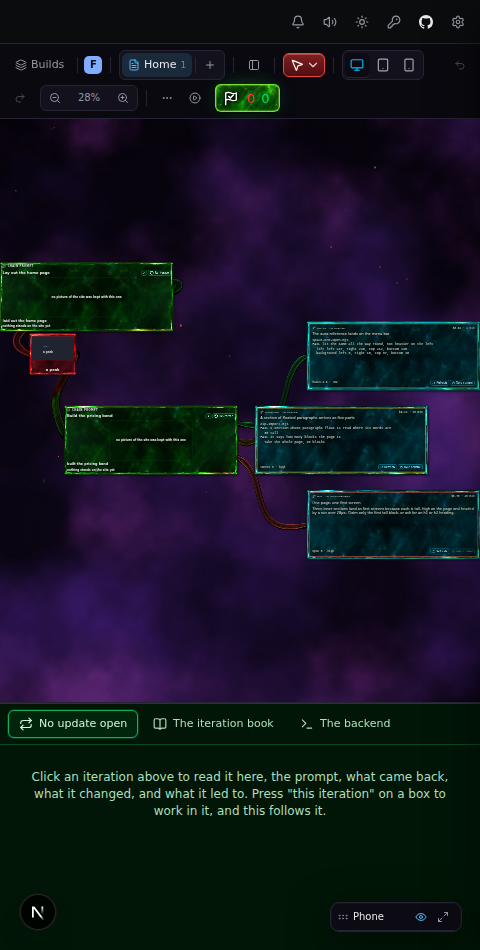
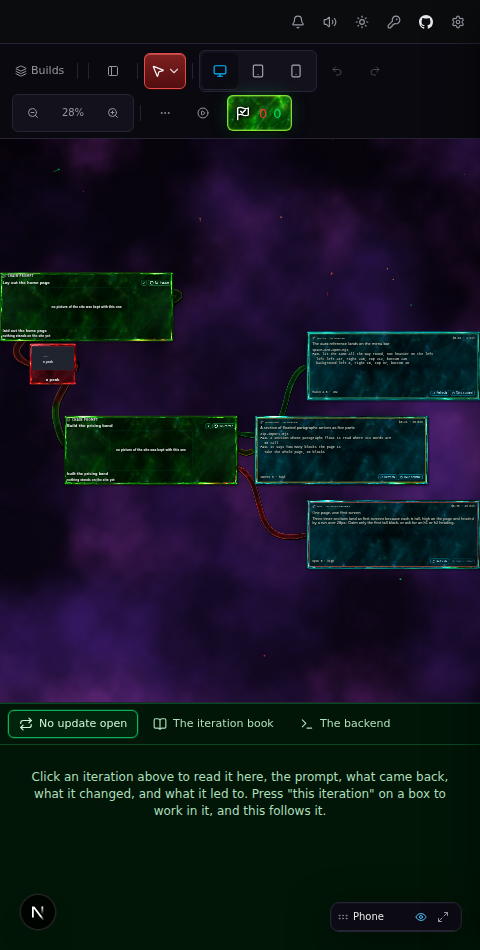
The vines are one painted body, and their colours flow into each other
No line down the middle of a vine: the dark core band at the axis is
lifted to char with a little core in it, and the faint thread scored
along the axis for the cut line is no longer painted at rest. The seam
is still there to press, and the press lights it.

Where two colours meet they lie over each other instead of switching:
each end's colour runs whole for three tenths of the length and thins
out to nothing by seven tenths, one from each end, over the material's
own dark, so some green flows into the red and some red back into the
green and each end stays the majority of its own colour.

The lane vines carry the construct's drifting cloud the timeline lays
over its own, clipped to the ribbon, so a lane's vine is the same
weather as the box it leaves.

Claude-Session: https://claude.ai/code/session_011dxs3jh1JLZT6UEd7hCDPr

diff --git a/src/features/studio/strand.ts b/src/features/studio/strand.ts
@@ -32,20 +32,18 @@
  * core is the axis, the light gathers at both edges, and there is one
  * ribbon rather than a pair lying against each other.
  *
- * **The colour runs along it instead, and the two never meet.** A vine
+ * **The colour runs along it instead, and the two flow into each other.** A vine
  * joins a green board to a red drawing and belongs to both, so it is green
  * where it leaves the green one, red where it arrives at the red one, and
- * in between it goes down to the material's own dark — not through a mix.
- * Blending the ends was tried and the middle of every vine came out yellow
- * and then brown, which is a colour neither board has; the way through is
- * that the light in a construct gathers where the construct is, and a vine
- * far from either board has nothing lighting it. Each band is one fill with
- * a gradient along the run, so it is still one fill per band whatever the
- * colours are, and the darkening is a clamp rather than a colour: the two
- * ends' bands are mixed and then pulled down to the lightness and the
- * chroma of `char`, where a hue cannot be read. A vine between two boards
- * of the same kind runs down into the same dark: lit at both ends, dark
- * along the middle, so every vine on the board is the one J pointed at.
+ * through the middle each colour thins out over the material's own dark
+ * as the other comes in, so some green flows into the red and some red
+ * back into the green, each end still the majority of its own (`HOLD`).
+ * Mixing the two into one colour was tried and the middle came out yellow
+ * and then brown, which is a colour neither board has; laid over each
+ * other, each thinning, over a dark that is the two ends' bands mixed and
+ * pulled down to the lightness and the chroma of `char`, they meet without
+ * making a third. A vine between two boards of the same kind runs down
+ * into the same dark: lit at both ends, dark along the middle.
  *
  * **The colour moves the way a box's does.** Not painted here: the timeline
  * lays the construct's own nebula over the ribbon, clipped to it
@@ -261,7 +259,10 @@ function section(bark: Bark): string[] {
   for (let i = 0; i < BANDS; i++) {
     // The middle of the band, as a share of the half-width.
     const t = (i + 0.5) / BANDS;
-    if (t < 0.10) out.push(bark.core);
+    // The axis: no groove. The core band read as a line running down the
+    // middle of every vine, his words, so the middle is char with a little
+    // of the core in it and the ribbon reads as one painted body.
+    if (t < 0.10) out.push(mix(core, char, 0.75));
     else if (t < 0.30) out.push(mix(core, char, (t - 0.10) / 0.20));
     else if (t < 0.70) out.push(mix(char, deep, (t - 0.30) / 0.40));
     // The rim's inner glow: the face, warmed towards the rim rather than
@@ -329,6 +330,18 @@ export const LANE_STRAND_WIDTH = 18;
  * a short one barely shows, because a short vine is nearly all end.
  */
 const FADE = 0.42;
+
+/**
+ * How much of the run each end's colour holds whole before it starts to
+ * let go: three tenths. From there it thins out toward the far end and is
+ * gone at seven tenths, and the far end's colour comes in the same way
+ * from the other side, so through the middle two fifths the two are laid
+ * over each other, each fading as the other rises, over the material's
+ * own dark. His words: the colours fade into each other toward the
+ * centre instead of switching, some green flowing into the red and some
+ * red back into the green, each end still the majority of its own colour.
+ */
+const HOLD = 0.3;
 
 /**
  * How far the path bows away from the straight line, as a share of the run.
@@ -677,29 +690,47 @@ export function paintStrand(
    * stays flat, and it has no colour to lose.
    */
   const ramped = !dead;
-  /** One band's colour along the run: this end's, the dark, then the other's. */
-  const ramp = (a: string, z: string): CanvasGradient => {
-    const g = c.createLinearGradient(from.x, from.y, to.x, to.y);
-    const dark = dusk(a, z, floor);
-    g.addColorStop(0, a);
-    g.addColorStop(FADE, dark);
-    g.addColorStop(1 - FADE, dark);
-    g.addColorStop(1, z);
+  /** A colour with an alpha on it, for the ends to thin out by. */
+  const thin = (colour: string, alpha: number) => colour.replace(/\)\s*$/, ` / ${alpha.toFixed(3)})`);
+  /**
+   * One end's colour along the run: whole to `HOLD`, then thinning to
+   * nothing by `1 - HOLD`. The near end runs one way, the far end the
+   * other, and where they cross each lies over the other. The axis is the
+   * straight line between the boards and not the curve, which is right: a
+   * linear gradient projects onto its axis, so a point halfway along the
+   * bow is halfway along the gradient, and a vine still growing is
+   * coloured as it will be when it is done.
+   */
+  const flow = (colour: string, end: 0 | 1): CanvasGradient => {
+    const g = end === 0
+      ? c.createLinearGradient(from.x, from.y, to.x, to.y)
+      : c.createLinearGradient(to.x, to.y, from.x, from.y);
+    g.addColorStop(0, colour);
+    g.addColorStop(HOLD, colour);
+    g.addColorStop(1 - HOLD, thin(colour, 0));
+    g.addColorStop(1, thin(colour, 0));
     return g;
   };
-  for (let k = 0; k < BANDS; k++) {
-    /*
-     * One fill, and the colour along it is the gradient's job rather than
-     * another polygon's. The axis is the straight line between the boards
-     * and not the curve, which is right: a linear gradient projects onto
-     * its axis, so a point halfway along the bow is halfway along the
-     * gradient, and a vine still growing is coloured as it will be when it
-     * is done.
-     */
-    c.fillStyle = ramped ? ramp(near[k]!, far[k]!) : near[k]!;
+  const band = (k: number) => {
     c.beginPath();
     for (const side of [0, 1] as const) sidePath(s, side, k, Math.min(BANDS, k + 1.12), half, c);
     c.fill();
+  };
+  for (let k = 0; k < BANDS; k++) {
+    if (!ramped) { c.fillStyle = near[k]!; band(k); continue; }
+    /*
+     * Three fills a band: the material's own dark the whole length, then
+     * this end's colour laid over it and thinning out along the run, then
+     * the other end's coming the other way. Thirty fills for a vine of any
+     * length, and the two colours meet by lying over each other rather than
+     * by being mixed into a third.
+     */
+    c.fillStyle = dusk(near[k]!, far[k]!, floor);
+    band(k);
+    c.fillStyle = flow(near[k]!, 0);
+    band(k);
+    c.fillStyle = flow(far[k]!, 1);
+    band(k);
   }
 
   /*
@@ -715,22 +746,15 @@ export function paintStrand(
    * The timeline puts a small element over it to take the press
    * (`strandSeam`); nothing here knows about pressing.
    */
-  if (!dead) {
-    /*
-     * Faint, and that is the whole of why it is not a third strand. The
-     * core band either side of it is already a dark groove two pixels
-     * across; a bright line in the middle of it, with a bright rim at each
-     * edge, would be three rails and a vine would be a cable again. A
-     * thread at two fifths is a line scored in the material, and the press
-     * over it takes it white hot when it is wanted (`molten.css`).
-     */
-    c.globalAlpha = lit * 0.4;
-    c.strokeStyle = ramped ? ramp(near[BANDS - 1]!, far[BANDS - 1]!) : near[BANDS - 1]!;
-    c.lineWidth = 1.1;
-    c.beginPath();
-    s.forEach((p, i) => (i ? c.lineTo(p.x, p.y) : c.moveTo(p.x, p.y)));
-    c.stroke();
-  }
+  /*
+   * THE CUT LINE, down the middle, and it is what the vine is for: nothing
+   * is painted for it at rest. A faint thread was scored along the axis
+   * and he saw it as a line running down the middle of every vine that
+   * should not be seen. The seam is still there to press (`strandSeam`):
+   * the timeline lays a small element over it, and the press lights the
+   * line white hot when it is wanted (`molten.css`, `.vine-cut`) and not
+   * before.
+   */
 
   c.restore();
 }

diff --git a/src/features/studio/Lanes.tsx b/src/features/studio/Lanes.tsx
@@ -8,7 +8,7 @@ import { useStudio } from "./store";
 import { BAND_COLOUR, LANE_MODE, laneRects, lanesOf, nextIn, shown, type Item, type Lane, type Lanes as LanesData, type Rect } from "./lanes";
 import { ITEMS } from "./lanesSample";
 import { BODY, EDGE } from "./boxGround";
-import { LANE_STRAND_WIDTH, paintStrand, strandBounds, type Point } from "./strand";
+import { LANE_STRAND_WIDTH, paintStrand, strandBounds, strandEnvelope, type Point } from "./strand";
 
 /**
  * The three lanes, hanging off the end of the timeline.
@@ -114,14 +114,41 @@ function Vines({ from, to, lanes }: { from: Rect; to: [Rect, Rect, Rect]; lanes:
     // Everything the paint depends on is in `key`.
     // eslint-disable-next-line react-hooks/exhaustive-deps
   }, [key]);
+  /*
+   * The cloud over each vine, as the timeline lays it over its own: one
+   * element per vine carrying the construct's drifting tile, clipped to the
+   * ribbon's body, at the phase its place gives it, so a lane's vine is the
+   * same weather as the box it leaves. Green and yellow take the verdant
+   * tile, red the ember one: the tiles the construct has.
+   */
+  const period = 512;
   return (
-    <canvas
-      ref={el}
-      data-lane-vines=""
-      aria-hidden
-      className="pointer-events-none absolute"
-      style={{ left: x0, top: y0, width: w, height: h }}
-    />
+    <>
+      <canvas
+        ref={el}
+        data-lane-vines=""
+        aria-hidden
+        className="pointer-events-none absolute"
+        style={{ left: x0, top: y0, width: w, height: h }}
+      />
+      {ends.map((e, i) => {
+        const box = boxes[i]!;
+        const band = lanes[i]!.band;
+        const at = (p: Point) => ({ x: p.x - box.x, y: p.y - box.y });
+        const d = [0, 1].map((side) => strandEnvelope(at(starts[i]!), at(e), side as 0 | 1, { ends: [band, band], width: LANE_STRAND_WIDTH })).filter(Boolean).join(" ");
+        return (
+          <div
+            key={band}
+            data-lane-vine-cloud={band}
+            className="molten-vine"
+            data-heat={band === "red" ? "ember" : "verdant"}
+            style={{ left: box.x, top: box.y, width: box.w, height: box.h, clipPath: d ? `path("${d}")` : "inset(100%)" }}
+          >
+            <i style={{ backgroundPositionX: `${-(((box.x % period) + period) % period)}px` }} />
+          </div>
+        );
+      })}
+    </>
   );
 }
 
